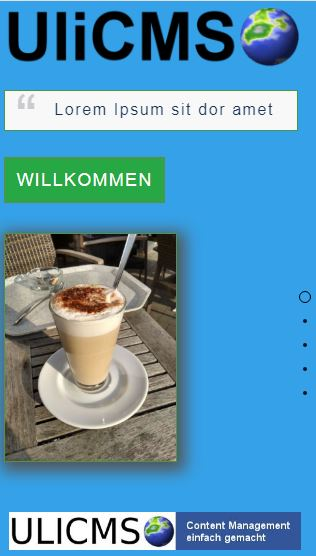
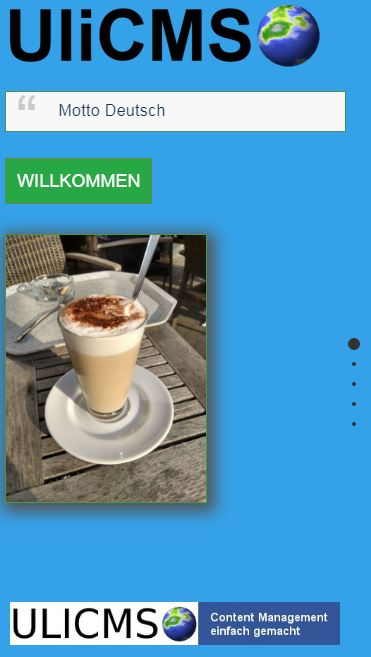
replace onepage-scroll with fullpage.js because onepage-scroll is buggy on iOS

diff --git a/ulicms/content/templates/2020/css/main.scss b/ulicms/content/templates/2020/css/main.scss
@@ -8,6 +8,8 @@ body{
     font-size: $font-size;
     background-color: $body-background-color;
     color: $body-text-color;
+    line-height: 1.5em;
+    -webkit-overflow-scrolling: touch;
 }
 
 .onepage-pagination{
@@ -18,9 +20,6 @@ html{
     letter-spacing: 0.02rem;
 }
 
-body{
-    line-height: 1.5em;
-}
 
 @-webkit-keyframes move-right-to-left {
     100% {
@@ -166,26 +165,15 @@ body{
     }
 
 }
-section.bgcolor1{
-    background-color: #E4B0A2;
-}
-section.bgcolor2{
-    background-color: #ADD6D8;
-}
-section.bgcolor3{
-    background-color: #583843;
-    color: white;
+/* Hide fullscreen Page Rows Navigation Dots on Mobile  */
+@media only screen and (max-width: 1023px) {
+    div#fp-nav {
+        display:none !important;
+    }
 }
 
-section.bgcolor4{
-    background-color: #F7C8C6;
-}
 
-section.bgcolor5{
-    background-color: #96D3BD;
-}
-
-section{
+.section{
     padding: 0 2% !important;
     word-wrap: break-word;
     line-height: 1.4em;
@@ -196,6 +184,9 @@ section{
         width: 90vw;
 
     }
+    .fp-tableCell {
+        display: block;
+    }
     .text-content{
         position: relative;
         left: -100vw;
@@ -205,6 +196,24 @@ section{
             animation: move-up 0.2s forwards;
         }
     }
+    &.bgcolor1{
+        background-color: #E4B0A2;
+    }
+    &.bgcolor2{
+        background-color: #ADD6D8;
+    }
+    &.bgcolor3{
+        background-color: #583843;
+        color: white;
+    }
+
+    &.bgcolor4{
+        background-color: #F7C8C6;
+    }
+
+    &.bgcolor5{
+        background-color: #96D3BD;
+    }
 }
 footer{
     position: absolute;
@@ -212,7 +221,6 @@ footer{
     left: 2%;
     width: 88vw;
     height: auto;
-
 
     font-size: 0.7em;
     display:none;
@@ -251,7 +259,7 @@ strong{
 
     .advertisement{
         position: absolute;
-        top: 90vh;
+        bottom: 2vh;
         left: 2%;
         max-width: 88%;
         max-height: 8vh;

diff --git a/ulicms/content/templates/2020/js/main.js b/ulicms/content/templates/2020/js/main.js
@@ -1,18 +1,15 @@
 $(function () {
     $("footer").last().fadeIn();
 
-    $(".main").onepage_scroll({
-        pagination: true,
-        animationTime: 2000,
-
-        afterMove: function (index) {
-            $($("section .sliding").get(index - 2)).addClass("slide-in");
-            $($("section .text-content").get(index - 2)).addClass("move-up");
+    new fullpage('#fullpage', {
+        afterLoad: function (origin, destination, direction) {
+            $(destination.item).find(".sliding").addClass("slide-in");
+            $(destination.item).find(".text-content").addClass("move-up");
         },
-        loop: false
+        anchors: $("#fullpage").data("slugs").split("||"),
+        navigationTooltips: $("#fullpage").data("titles").split("||"),
+        navigation: true,
+        navigationPosition: 'right'
     });
 
-    $('.button.move-down').click(function () {
-        $(".main").moveDown();
-    });
 });

diff --git a/ulicms/content/templates/2020/top.php b/ulicms/content/templates/2020/top.php
@@ -21,7 +21,7 @@ $frontpagePhoto = file_exists($frontpagePhotoFile) ? UliCMS\HTML\imageTag("conte
             getTemplateDirPath(
                     get_theme()
             ) .
-            "node_modules/onepage-scroll/onepage-scroll.css");
+            "node_modules/fullpage.js/dist/fullpage.min.css");
     enqueueStylesheet(
             getTemplateDirPath(
                     get_theme()
@@ -29,12 +29,33 @@ $frontpagePhoto = file_exists($frontpagePhotoFile) ? UliCMS\HTML\imageTag("conte
             "css/main.scss");
     combinedStylesheetHtml();
     echo \UliCMS\HTML\Style::FromString($css);
+
+    $titles = [get_translation("frontpage")];
+
+    $slugs = ["frontpage"];
+    foreach ($pages as $index => $page) {
+        if ($page->language !== getCurrentLanguage() ||
+                !$page->isRegular() ||
+                (!$page->active && !is_logged_in()) ||
+                !$permissionChecker->canRead($page->id)) {
+            continue;
+        }
+        $slugs[] = $page->slug;
+        $titles[] = $page->title;
+    }
+
+    $slugAttr = implode("||", $slugs);
+    $titleAttr = implode("||", $titles);
     ?>
 
 </head>
 <body class="<?php body_classes(); ?>">
-    <div class="main">
-        <section class="start-page">
+    <div class="main"
+         id="fullpage"
+         data-slugs="<?php esc($slugAttr); ?>"
+         data-titles="<?php esc($titleAttr); ?>"
+         >
+        <div class="section start-page">
             <?php Template::logo();
             ?>
             <blockquote class="site-slogan text-fade-in">
@@ -43,7 +64,9 @@ $frontpagePhoto = file_exists($frontpagePhotoFile) ? UliCMS\HTML\imageTag("conte
             if (count($pages)) {
                 $firstPage = $pages[0];
                 ?>
-                <a href="#" class="button move-down"><?php esc($firstPage->getHeadline()); ?></a>
+                <?php if (count($slugs) >= 2) { ?>
+                    <a href="#<?php esc($slugs[1]); ?>" class="button move-down"><?php esc($firstPage->getHeadline()); ?></a>
+                <?php } ?>
                 <?php if ($frontpagePhoto) { ?>
                     <div id="frontpage-photo">
                         <?php echo $frontpagePhoto; ?>
@@ -55,7 +78,7 @@ $frontpagePhoto = file_exists($frontpagePhotoFile) ? UliCMS\HTML\imageTag("conte
             <div class="advertisement">
                 <?php random_banner(); ?>
             </div>
-        </section>
+        </div>
         <?php
         $color = 0;
         foreach ($pages as $index => $page) {
@@ -69,7 +92,7 @@ $frontpagePhoto = file_exists($frontpagePhotoFile) ? UliCMS\HTML\imageTag("conte
             $text_position = get_text_position();
             $color ++;
             ?>
-            <section class="bgcolor<?php echo $color; ?>">
+            <div class="section bgcolor<?php echo $color; ?>">
                 <div class="content">
                     <?php
                     echo $page->getShowHeadline() ? "<h1 class=\"sliding\">{$page->getHeadline()}</h1>" : "";
@@ -94,10 +117,10 @@ $frontpagePhoto = file_exists($frontpagePhotoFile) ? UliCMS\HTML\imageTag("conte
 
                     <?php Template::comments(); ?>
                 </div>
-                <footer>
+                <footer style="display: none">
                     <?php Template::footerText(); ?>
                 </footer>
-            </section>
+            </div>
             <?php
             if ($color >= 5) {
                 $color = 0;

diff --git a/ulicms/content/templates/2020/bottom.php b/ulicms/content/templates/2020/bottom.php
@@ -3,7 +3,7 @@ enqueueScriptFile(
         getTemplateDirPath(
                 get_theme()
         ) .
-        "node_modules/onepage-scroll/jquery.onepage-scroll.min.js");
+        "node_modules/fullpage.js/dist/fullpage.min.js");
 enqueueScriptFile(
         getTemplateDirPath(
                 get_theme()
